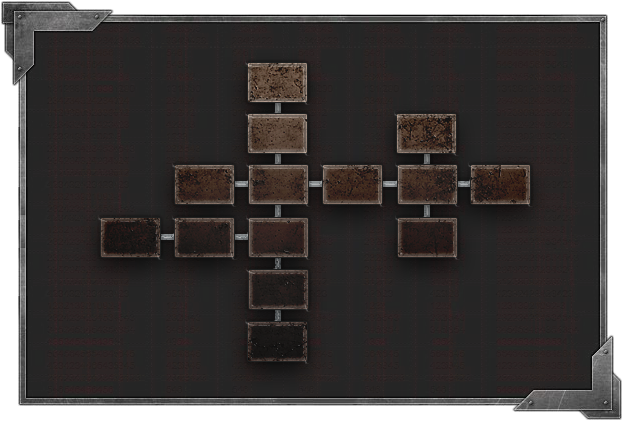
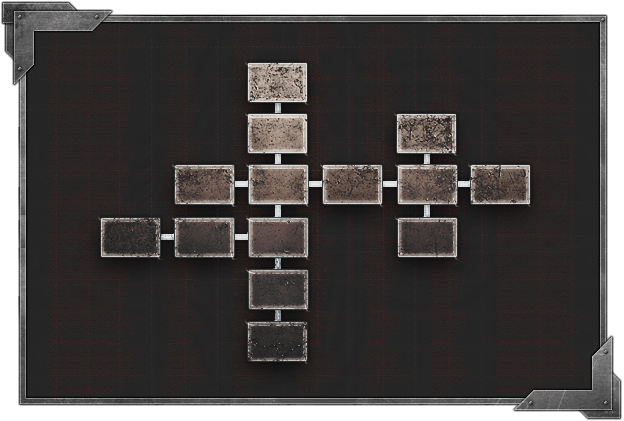
added some capabilities to GameMap! added some images related to GameMap!

Changed region(s): [[0.1522, 0.1235, 0.8526, 0.8646]]

diff --git a/src/robokill/GameMap.java b/src/robokill/GameMap.java
@@ -1,23 +1,49 @@
 package robokill;
 
 import java.awt.Graphics;
+import java.awt.Point;
 import java.awt.image.BufferedImage;
 
 import javax.imageio.ImageIO;
 import javax.swing.JPanel;
+import javax.xml.crypto.dsig.spec.HMACParameterSpec;
 
 /**
  * 
  * @author HRM_SHAMS
- * @version 1.1
+ * @version 1.3
  */
 public class GameMap extends JPanel{
 
 	private static final long serialVersionUID = 1L;
 	
 	BufferedImage mapImage;
+	
 	boolean isShowed = false; //when map showed this boolean will be true and when it hided this will be false!
 	boolean isMoving = false; //while moving the panel this will be true and after it will be false!
+	
+	/*Every where of this class we only declare an object of class CurrentHome
+	 *and setLocation it in method showCurrentRoom! 
+	 **/
+	CurrentHome currentHome = new CurrentHome(new Point(-500,-500)); 
+
+	/**
+	 * we save location of homes in map with static Point objects!
+	 */
+	public static Point Room_Location_0 = new Point(100,217);
+	public static Point Room_Location_5 = new Point(174,217);
+	public static Point Room_Location_21 = new Point(248,217);
+	public static Point Room_Location_31 = new Point(248,269);
+	public static Point Room_Location_61 = new Point(248,321);
+	public static Point Room_Location_1 = new Point(248,164);
+	public static Point Room_Location_62 = new Point(174,164);
+	public static Point Room_Location_32 = new Point(247,113);
+	public static Point Room_Location_71 = new Point(247,62);
+	public static Point Room_Location_63 = new Point(322,164);
+	public static Point Room_Location_8 = new Point(397,164);
+	public static Point Room_Location_72 = new Point(397,217);
+	public static Point Room_Location_22 = new Point(470,164);
+	public static Point Room_Location_000000 = new Point(396,113);
 	
 	public GameMap(){
 		setLocation(188,-421);
@@ -29,6 +55,7 @@ public class GameMap extends JPanel{
 		}catch(Exception e){System.out.println("Error in reading file!");}
 		
 	}
+
 	@Override
 	public void paintComponent(Graphics g)
 	{
@@ -97,5 +124,77 @@ public class GameMap extends JPanel{
 			}
 		}.start();		
 	}
+
+	/**
+	 * in the map must be shown the current room that player is there!
+	 * @param homeLocation
+	 */
+	public void showCurrentRoom(Point homeLocation)
+	{
+		
+	}
 	
+	/**
+	 * when player entered a room , that room must showed as occupied in map.
+	 * this method do this work!!
+	 * @param homeLocation
+	 */
+	public void showOccupiedHome(Point homeLocation)
+	{
+		HomeOccupied a = new HomeOccupied(homeLocation);
+		add (a);
+	}
+	
+	
+	/**
+	 * when player entered a room , that room must showed as occupied in map.
+	 * this panel shows occupied home!
+	 * @author HRM_SHAMS
+	 */
+	class HomeOccupied extends JPanel{
+		
+		BufferedImage homeOccupied;
+		
+		public HomeOccupied(Point location)
+		{
+			setLocation(location);
+			setSize(61, 41);
+			
+			try{
+				homeOccupied = ImageIO.read(getClass().getResource("/images/mapHomeOccupied.png"));
+			}catch(Exception e){System.out.println("Error in reading file!");}
+		}
+		
+		@Override
+		public void paintComponent(Graphics g)
+		{
+			g.drawImage(homeOccupied,0,0,null);
+		}
+	}
+	
+	/**
+	 * used for showing current home in map!
+	 * @author HRM_SHAMS
+	 */
+	class CurrentHome extends JPanel{
+
+		BufferedImage currentHome;
+		
+		public CurrentHome(Point location)
+		{
+			setLocation(location);
+			setSize(61, 41);
+			
+			try{
+				currentHome = ImageIO.read(getClass().getResource("/images/currentHome.png"));
+			}catch(Exception e){System.out.println("Error in reading file!");}
+		}
+		
+		@Override
+		public void paintComponent(Graphics g)
+		{
+			g.drawImage(currentHome,0,0,null);
+		}
+		
+	}
 }
